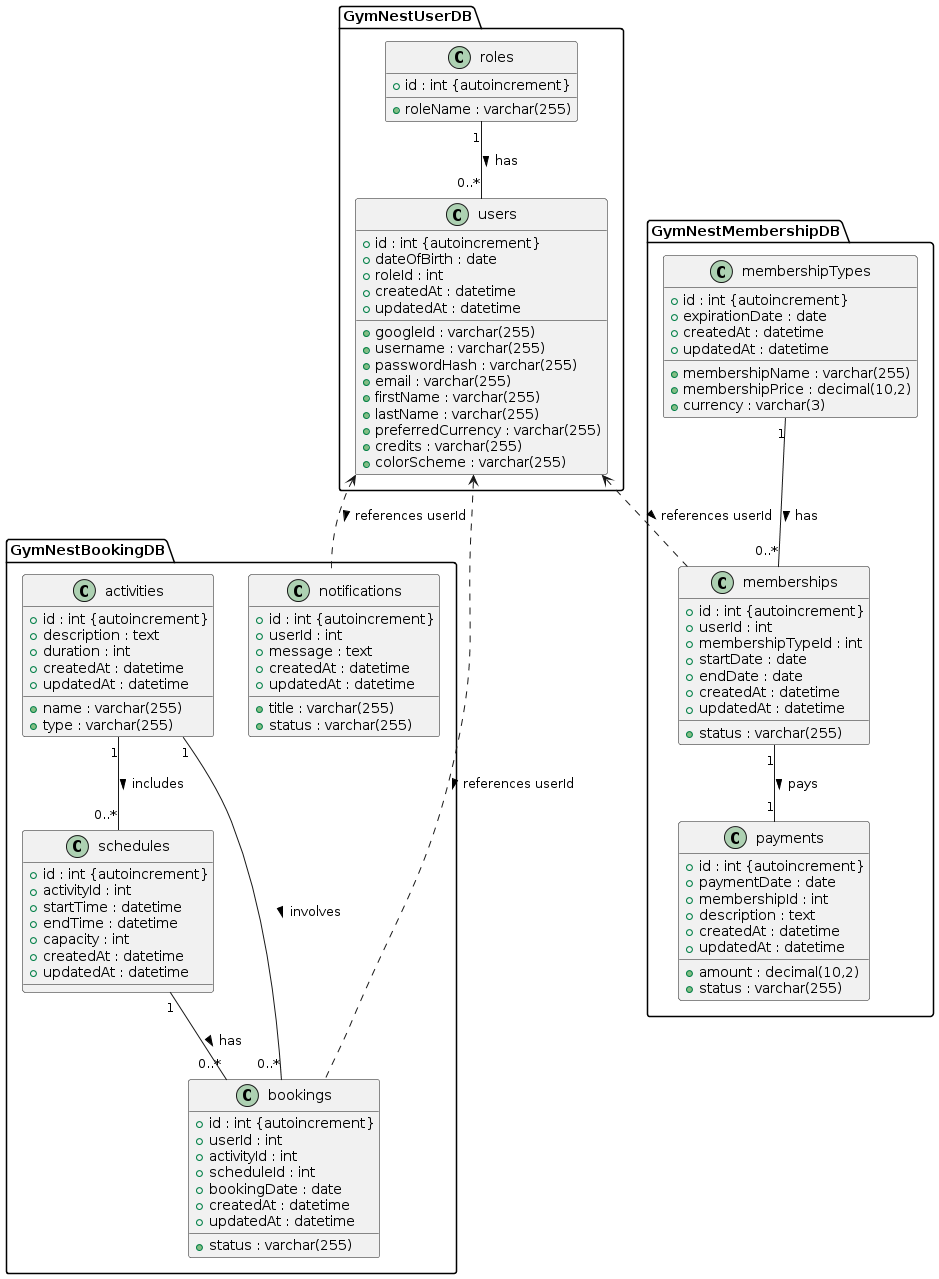
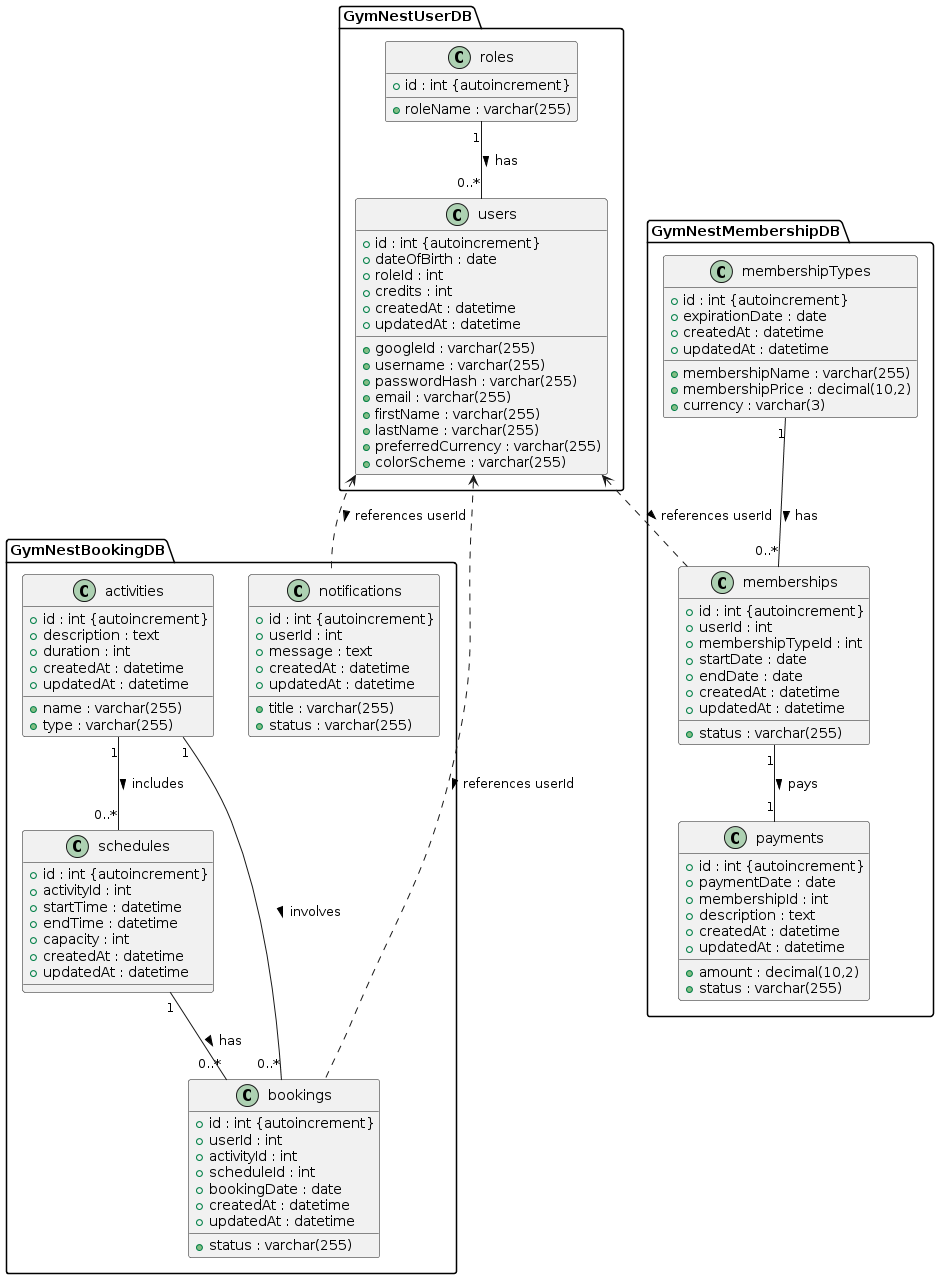
MembershipPage - Paypal funguje a pripisuje kredity + docasna zmena nefungujiciho api volani kvuli zmene v membershipTypes Backend - fixes in user model and db

Changed region(s): [[0.3706, 0.2134, 0.6486, 0.3659]]

diff --git a/GymNest-IS/frontend/src/components/membership/PayPalButton.js b/GymNest-IS/frontend/src/components/membership/PayPalButton.js
@@ -1,65 +1,135 @@
-import React, { useState } from 'react';
+import React, { useState, useEffect } from 'react';
+import axios from 'axios';
 import { PayPalScriptProvider, PayPalButtons } from "@paypal/react-paypal-js";
-import { Button, Typography, Box } from '@mui/material';
+import { Button, Typography, Box, TextField, Slider } from '@mui/material';
+import { useAuth } from '../AuthContext';
 
 const initialOptions = {
     "client-id": process.env.REACT_APP_PAYPAL_CLIENT_ID,
-    currency: "USD", //TODO - změnit na preferedCurrncy z User DB
     intent: "capture",
 };
 
-const subscriptionOptions = [
-    { duration: "1 měsíc = 10USD", value: "10.00" },
-    { duration: "6 měsíců = 50USD", value: "50.00" },
-    { duration: "1 rok = 90USD", value: "90.00" }
-];
+const currencyOptions = ["CZK", "USD", "EUR"];
+const exchangeRates = { USD: 23, EUR: 25, CZK: 1 };
 
-/**
- * A React component for rendering a PayPal button and handling user interactions.
- *
- * * card testing: https://developer.paypal.com/api/rest/sandbox/card-testing/#link-creditcardgeneratorfortesting
- *
- * @return {JSX.Element} The PayPalButton component
- */
 const PayPalButton = () => {
-    const [selectedAmount, setSelectedAmount] = useState("");
-    const [isSubscriptionSelected, setIsSubscriptionSelected] = useState(false);
+    const { user, setCreditsUser, token } = useAuth();
+    const [selectedCurrency, setSelectedCurrency] = useState(user?.preferredCurrency || "USD");
+    const [amount, setAmount] = useState(1);
+    const [showPayPalButton, setShowPayPalButton] = useState(false);
 
-    const handleApprove = (data, actions) => {
-        console.log("Platba byla úspěšná!", data, actions);
-        return actions.order.capture();
+    useEffect(() => {
+        if (user && user.preferredCurrency) {
+            setSelectedCurrency(user.preferredCurrency);
+            initialOptions.currency = user.preferredCurrency;
+        }
+    }, [user]);
+
+    const handleApprove = async (data, actions) => {
+        try {
+            const capture = await actions.order.capture();
+            console.log('Capture result:', capture);
+
+            if (capture.status === 'COMPLETED') {
+                const amountInCZK = amount * exchangeRates[selectedCurrency];
+                addUserCreditsToServer(user.id, amountInCZK);
+            } else {
+                // Zpracování neúspěšného stavu objednávky
+                alert('Platba nebyla úspěšná. Prosím, zkuste to znovu.');
+            }
+        } catch (error) {
+            console.error('Chyba při zpracování platby:', error);
+            alert('Nastala chyba při zpracování vaší platby. Prosím, kontaktujte podporu.');
+        }
     };
 
-    const handleSubscriptionSelect = (value) => {
-        setSelectedAmount(value);
-        setIsSubscriptionSelected(true);
+    const addUserCreditsToServer = async (userId, amountToAdd) => {
+        try {
+            const response = await axios.post(`http://localhost:3001/api/users/${userId}/credits/add`, {
+                amount: amountToAdd
+            }, {
+                headers: { Authorization: `Bearer ${token}` }
+            });
+            if (response.data.user) {
+                setCreditsUser(response.data.user);
+                alert(`Kredity byly úspěšně připsány! Přidán: ${amountToAdd} kredit.`);
+            }
+        } catch (error) {
+            console.error("Failed to add credits:", error);
+            alert("Nepodařilo se přidat kredity. Zkuste to prosím znovu.");
+        }
+    };
+
+    const handleCurrencySelect = (currency) => {
+        setSelectedCurrency(currency);
+        initialOptions.currency = currency;
+    };
+
+    const handleInputChange = (event) => {
+        setAmount(event.target.value);
+    };
+
+    const handleConfirmClick = () => {
+        console.log("Amount:", amount);
+        console.log("Currency:", selectedCurrency);
+        handleCurrencySelect(selectedCurrency);
+        setShowPayPalButton(true);
     };
 
     return (
         <Box sx={{
-			display: 'flex',
-			flexDirection: 'column',
-			alignItems: 'center',
-			justifyContent: 'center',
-			gap: 2
-		}}>
-            <Typography variant="h4">Vyber si délku předplatného</Typography>
-            <Box>
-                {subscriptionOptions.map((option, index) => (
-                    <Button variant="outlined" key={index} onClick={() => handleSubscriptionSelect(option.value)} sx={{ margin: 1 }}>
-                        {option.duration}
+            display: 'flex',
+            flexDirection: 'column',
+            alignItems: 'center',
+            justifyContent: 'center',
+            gap: 2
+        }}>
+            <Typography variant="h4">Vyber měnu a částku</Typography>
+            {!showPayPalButton && (
+                <React.Fragment>
+                    <Box>
+                        {currencyOptions.map((currency, index) => (
+                            <Button
+                                variant={currency === selectedCurrency ? "contained" : "outlined"}
+                                key={index}
+                                onClick={() => handleCurrencySelect(currency)}
+                                sx={{ margin: 1, fontWeight: currency === selectedCurrency ? 'bold' : 'normal' }}
+                            >
+                                {currency}
+                            </Button>
+                        ))}
+                    </Box>
+                    <Typography variant="h6">Zadej částku</Typography>
+                    <Box sx={{ width: 300, padding: 2 }}>
+                        <TextField
+                            value={amount}
+                            onChange={handleInputChange}
+                            type="number"
+                            inputProps={{
+                                step: 1,
+                                min: 1,
+                                max: 1000000,
+                                type: 'number',
+                            }}
+                            sx={{ width: 300, mt: 2 }}
+                        />
+                    </Box>
+                    <Button onClick={handleConfirmClick} variant="contained" sx={{ mt: 2 }}>
+                        Potvrdit a platit
                     </Button>
-                ))}
-            </Box>
-            {isSubscriptionSelected && (
+                </React.Fragment>
+            )}
+            {showPayPalButton && (
                 <Box maxWidth="400px" width="100%">
                     <PayPalScriptProvider options={initialOptions}>
                         <PayPalButtons
                             style={{ layout: "vertical", tagline: false }}
                             createOrder={(data, actions) => {
+                                // Ujistěte se, že amount je platná hodnota
+                                const validAmount = amount > 0 ? amount.toString() : "1";
                                 return actions.order.create({
                                     purchase_units: [{
-                                        amount: { value: selectedAmount },
+                                        amount: { value: validAmount },
                                     }],
                                     application_context: { shipping_preference: 'NO_SHIPPING' }
                                 });

diff --git a/GymNest-IS/frontend/src/pages/MembershipPage.js b/GymNest-IS/frontend/src/pages/MembershipPage.js
@@ -10,7 +10,7 @@ const MembershipPage = () => {
   const { token, user, logout } = useContext(AuthContext);
   const [membershipInfo, setMembershipInfo] = useState(null);
   const [paymentHistory, setPaymentHistory] = useState([]);
-  const [availableMemberships, setAvailableMemberships] = useState([]);
+  const [availableMemberships, setAvailableMemberships] = useState(null);
 
   const apiAddress = 'http://localhost:3002/api';
 
@@ -47,8 +47,7 @@ const MembershipPage = () => {
 
     const fetchAvailableMemberships = async () => {
       try {
-        const response = await axios.get(`${apiAddress}/memberships/all`);
-        setAvailableMemberships(response.data);
+        console.log("Zmenit na membershipsTypes")
       } catch (error) {
         console.error("Error fetching available memberships:", error);
       }
@@ -72,14 +71,24 @@ const MembershipPage = () => {
           <TableContainer component={Paper}>
             <Table>
               <TableBody>
-                {availableMemberships.map((membership, index) => (
-                    <TableRow key={index}>
-                      <TableCell component="th" scope="row">
-                        {membership.membershipType}
-                      </TableCell>
-                      <TableCell align="right">{membership.membershipPrice} Kč/měsíc</TableCell>
-                    </TableRow>
-                ))}
+              {availableMemberships && availableMemberships.length > 0 ? (
+                availableMemberships.map((membership, index) => (
+                  <TableRow key={index}>
+                    <TableCell component="th" scope="row">
+                      {membership.membershipType}
+                    </TableCell>
+                    <TableCell align="right">
+                      {membership.membershipPrice} Kč/měsíc
+                    </TableCell>
+                  </TableRow>
+                ))
+              ) : (
+                <TableRow>
+                  <TableCell component="th" scope="row" colSpan={2} align="center">
+                    Žádná dostupná členství
+                  </TableCell>
+                </TableRow>
+              )}
               </TableBody>
             </Table>
           </TableContainer>

diff --git a/GymNest-IS/frontend/src/components/AuthContext.js b/GymNest-IS/frontend/src/components/AuthContext.js
@@ -61,8 +61,13 @@ export const AuthProvider = ({ children }) => {
     setUser(null);
   };
 
+  const setCreditsUser = (user) => {
+    localStorage.setItem('user', JSON.stringify(user));
+    setUser(user);
+  }
+
   return (
-    <AuthContext.Provider value={{ user, token, login, logout, errorMessage, setErrorMessage }}>
+    <AuthContext.Provider value={{ user, setCreditsUser, token, login, logout, errorMessage, setErrorMessage }}>
       {children}
     </AuthContext.Provider>
   );

diff --git a/GymNest-IS/user-service/src/models/User.js b/GymNest-IS/user-service/src/models/User.js
@@ -239,7 +239,7 @@ User.init({
         defaultValue: 'CZK', // Výchozí měna
     },
     credits: {
-        type: DataTypes.FLOAT,
+        type: DataTypes.INTEGER,
         defaultValue: 0
     },
 

diff --git a/Výstupy projektu/UML/classDiagram.md b/Výstupy projektu/UML/classDiagram.md
@@ -20,7 +20,7 @@ package "GymNestUserDB" {
       + dateOfBirth : date
       + roleId : int
       + preferredCurrency : varchar(255)
-      + credits : varchar(255)
+      + credits : int
       + colorScheme : varchar(255)
       + createdAt : datetime
       + updatedAt : datetime
